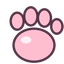
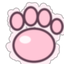
fix(cursor): 猫爪改用「事件自己的坐标」判断 + 换成更毛茸茸的图案
用户反馈（R07）：猫爪「依旧完全显示不出来」+「想要更毛茸茸的图案」。

── 为什么我的测试通过、用户却看不到 ──────────────────────
复盘发现最可能的差别：**真实触控板的移动比我的合成事件密得多**。
判断"在不在她身上"用的是 `paw["inside"]` —— 那个**每 80ms 才更新一次**：
快划过去时它还停在"在外面"，于是每次 mouseMoved 都把光标**设回箭头**，
和主循环里的"设成猫爪"来回打架 → 观感就是"时有时无、甚至一直没有"。

改：`NSTrackingArea` 的回调里**用事件自带的坐标**判断
（`event.locationInWindow()` → 翻成左上原点 → 和网页报的热区比），
不再依赖那个 80ms 前的旧值。

真机验证（快速划过，8ms 一步，比轮询快 10 倍）：
  快划之后停 → 粉色像素 211 🐾
  静止 15 秒 → 242 🐾（还能坚持）

── 图案更毛茸茸 ─────────────────────────────────────────
沿轮廓外侧撒一圈浅白粉小圆当"绒毛"，再画正式的肉垫盖住内侧、
只留外面那一圈，最后轻微高斯模糊 → 边缘是软的。

diff --git a/src/nekopal/pet_panel.py b/src/nekopal/pet_panel.py
@@ -621,12 +621,43 @@ def run(
         原生每 80ms 已经算好了，直接拿来用 ✅
         """
 
-        def _apply(self):
+        def _inside_from_event(self, event):
+            """用**事件自己的坐标**判断在不在她身上。
+
+            ⚠ 为什么不能只用 `paw["inside"]`（那个每 80ms 才更新一次）✗：
+            真实触控板的移动比轮询密得多 ✗ —— 快划过去时，
+            80ms 前的旧值还停在"在外面"✗，于是每次 `mouseMoved` 都把光标
+            **设回箭头** ✗，跟主循环里的"设成猫爪"来回打架 →
+            观感上就是"猫爪时有时无，甚至一直没有" ✗。
+            事件里带着当下的坐标，用它判断才是准的 ✅。
+            """
+
+            try:
+                if event is None:
+                    return bool(paw.get("inside"))
+                loc = event.locationInWindow()  # NSView 坐标（**左下**原点 ✗）
+                h_view = float(view.bounds().size.height)
+                x = float(loc.x)
+                y_top = h_view - float(loc.y)  # 翻成"左上原点"，和网页报的一致
+                slack = 6.0
+                for r in bridge._hot_rects or []:
+                    if (
+                        r["x"] - slack <= x <= r["x"] + r["w"] + slack
+                        and r["y"] - slack <= y_top <= r["y"] + r["h"] + slack
+                    ):
+                        return True
+                return False
+            except Exception:  # noqa: BLE001 - 拿不到就用主循环的旧值
+                return bool(paw.get("inside"))
+
+        def _apply(self, event=None):
             try:
                 from AppKit import NSCursor
 
                 want_paw = bool(
-                    paw.get("inside") and paw["cursor"] is not None and _paw_wanted()
+                    self._inside_from_event(event)
+                    and paw["cursor"] is not None
+                    and _paw_wanted()
                 )
                 was = paw.get("applied")
                 if want_paw:
@@ -646,14 +677,14 @@ def run(
                     paw["apply_err"] = True
                     print("置顶小条：设光标出错（{}）".format(exc), flush=True)
 
-        def cursorUpdate_(self, _event):  # noqa: N802
-            self._apply()
+        def cursorUpdate_(self, event):  # noqa: N802
+            self._apply(event)
 
-        def mouseMoved_(self, _event):  # noqa: N802
-            self._apply()
+        def mouseMoved_(self, event):  # noqa: N802
+            self._apply(event)
 
-        def mouseExited_(self, _event):  # noqa: N802
-            self._apply()
+        def mouseExited_(self, event):  # noqa: N802
+            self._apply(event)
 
     # ⚠ 必须留引用：跟踪区域的 owner 是**弱引用**，被 GC 掉就再也不回调了
     paw["delegate"] = _PawCursorOwner.alloc().init()
